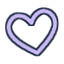
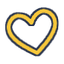
Gold hover heart so it shows on lilac buttons
Claude-Session: https://claude.ai/code/session_011Q9ucsexZtS7EaihkxWPMo

Changed region(s): [[0.0938, 0.125, 0.9062, 0.875]]

diff --git a/styles.css b/styles.css
@@ -749,24 +749,24 @@ a.entry:hover .thumb__play { opacity: 1; }
    and the heart fills in while the button is held down. */
 @media (hover: hover) and (pointer: fine) {
 html, html * {
-  cursor: url("/assets/cursor/heart.png?v=1") 16 16, auto;
-  cursor: -webkit-image-set(url("/assets/cursor/heart.png?v=1") 1x, url("/assets/cursor/heart@2x.png?v=1") 2x) 16 16, auto;
-  cursor: image-set(url("/assets/cursor/heart.png?v=1") 1x, url("/assets/cursor/heart@2x.png?v=1") 2x) 16 16, auto;
+  cursor: url("/assets/cursor/heart.png?v=2") 16 16, auto;
+  cursor: -webkit-image-set(url("/assets/cursor/heart.png?v=2") 1x, url("/assets/cursor/heart@2x.png?v=2") 2x) 16 16, auto;
+  cursor: image-set(url("/assets/cursor/heart.png?v=2") 1x, url("/assets/cursor/heart@2x.png?v=2") 2x) 16 16, auto;
 }
 a, button, [role="button"], label, summary, .glint, .glint *, a * {
-  cursor: url("/assets/cursor/heart-hover.png?v=1") 16 16, pointer;
-  cursor: -webkit-image-set(url("/assets/cursor/heart-hover.png?v=1") 1x, url("/assets/cursor/heart-hover@2x.png?v=1") 2x) 16 16, pointer;
-  cursor: image-set(url("/assets/cursor/heart-hover.png?v=1") 1x, url("/assets/cursor/heart-hover@2x.png?v=1") 2x) 16 16, pointer;
+  cursor: url("/assets/cursor/heart-hover.png?v=2") 16 16, pointer;
+  cursor: -webkit-image-set(url("/assets/cursor/heart-hover.png?v=2") 1x, url("/assets/cursor/heart-hover@2x.png?v=2") 2x) 16 16, pointer;
+  cursor: image-set(url("/assets/cursor/heart-hover.png?v=2") 1x, url("/assets/cursor/heart-hover@2x.png?v=2") 2x) 16 16, pointer;
 }
 html.is-pressing, html.is-pressing * {
-  cursor: url("/assets/cursor/heart-fill.png?v=1") 16 16, auto;
-  cursor: -webkit-image-set(url("/assets/cursor/heart-fill.png?v=1") 1x, url("/assets/cursor/heart-fill@2x.png?v=1") 2x) 16 16, auto;
-  cursor: image-set(url("/assets/cursor/heart-fill.png?v=1") 1x, url("/assets/cursor/heart-fill@2x.png?v=1") 2x) 16 16, auto;
+  cursor: url("/assets/cursor/heart-fill.png?v=2") 16 16, auto;
+  cursor: -webkit-image-set(url("/assets/cursor/heart-fill.png?v=2") 1x, url("/assets/cursor/heart-fill@2x.png?v=2") 2x) 16 16, auto;
+  cursor: image-set(url("/assets/cursor/heart-fill.png?v=2") 1x, url("/assets/cursor/heart-fill@2x.png?v=2") 2x) 16 16, auto;
 }
 html.is-pressing a, html.is-pressing a *, html.is-pressing button, html.is-pressing [role="button"], html.is-pressing label, html.is-pressing summary, html.is-pressing .glint, html.is-pressing .glint * {
-  cursor: url("/assets/cursor/heart-fill-hover.png?v=1") 16 16, pointer;
-  cursor: -webkit-image-set(url("/assets/cursor/heart-fill-hover.png?v=1") 1x, url("/assets/cursor/heart-fill-hover@2x.png?v=1") 2x) 16 16, pointer;
-  cursor: image-set(url("/assets/cursor/heart-fill-hover.png?v=1") 1x, url("/assets/cursor/heart-fill-hover@2x.png?v=1") 2x) 16 16, pointer;
+  cursor: url("/assets/cursor/heart-fill-hover.png?v=2") 16 16, pointer;
+  cursor: -webkit-image-set(url("/assets/cursor/heart-fill-hover.png?v=2") 1x, url("/assets/cursor/heart-fill-hover@2x.png?v=2") 2x) 16 16, pointer;
+  cursor: image-set(url("/assets/cursor/heart-fill-hover.png?v=2") 1x, url("/assets/cursor/heart-fill-hover@2x.png?v=2") 2x) 16 16, pointer;
 }
 }
 
